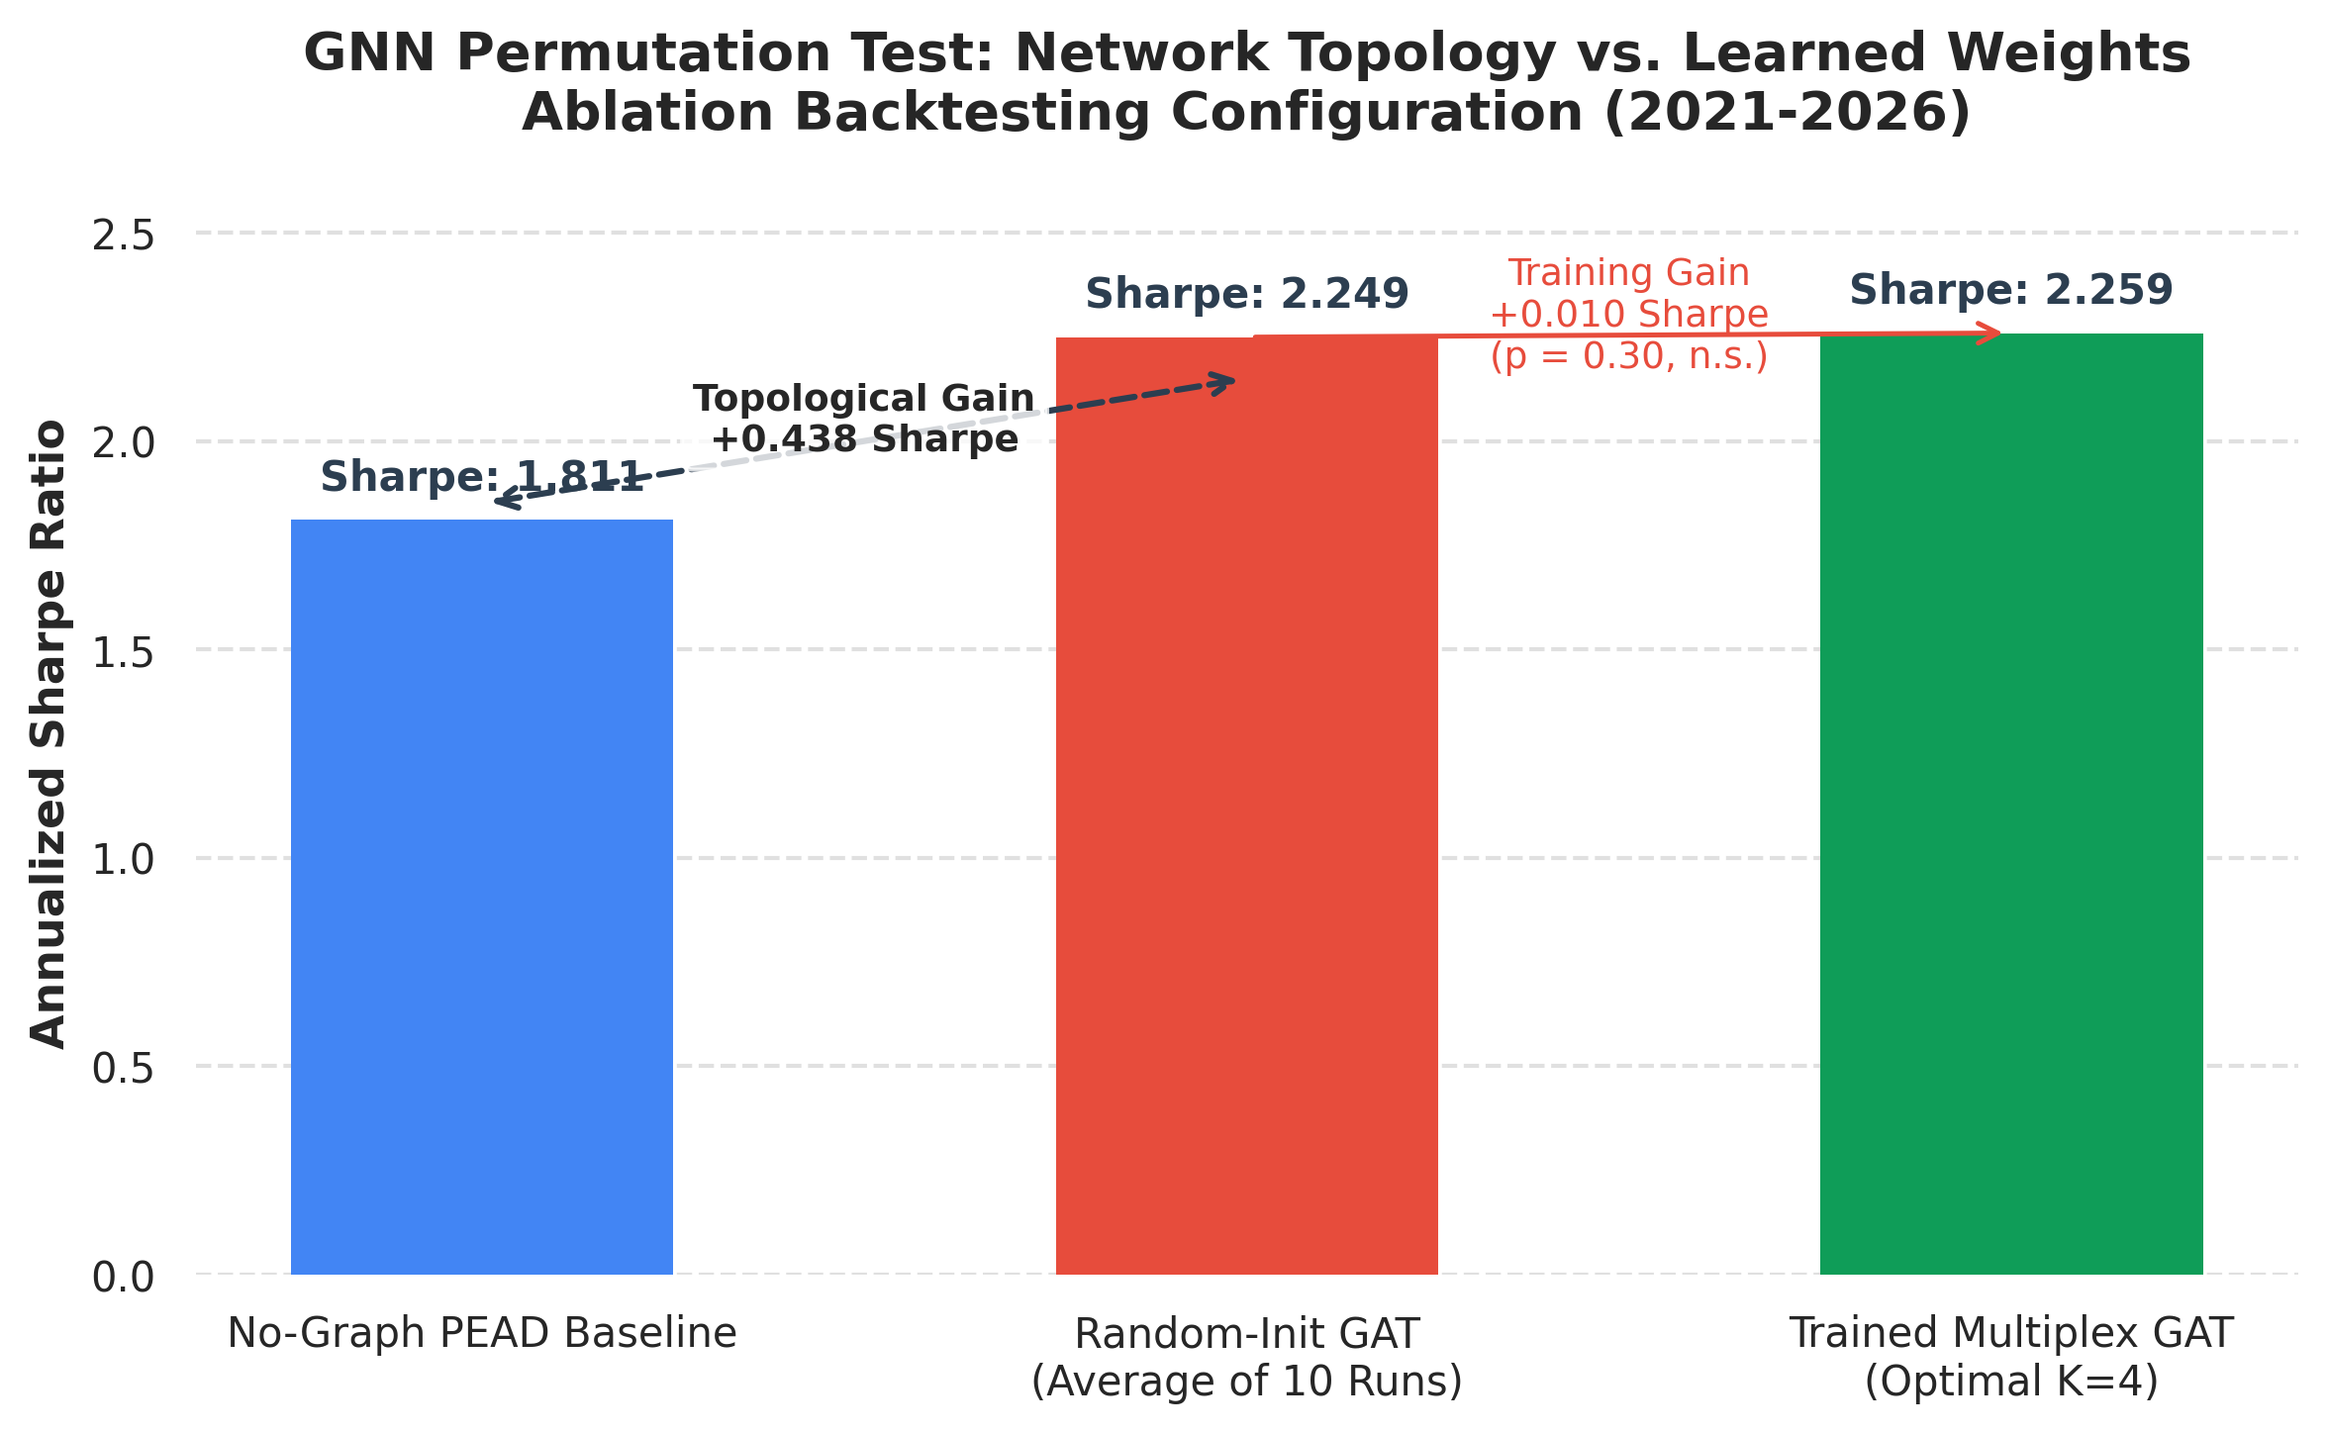
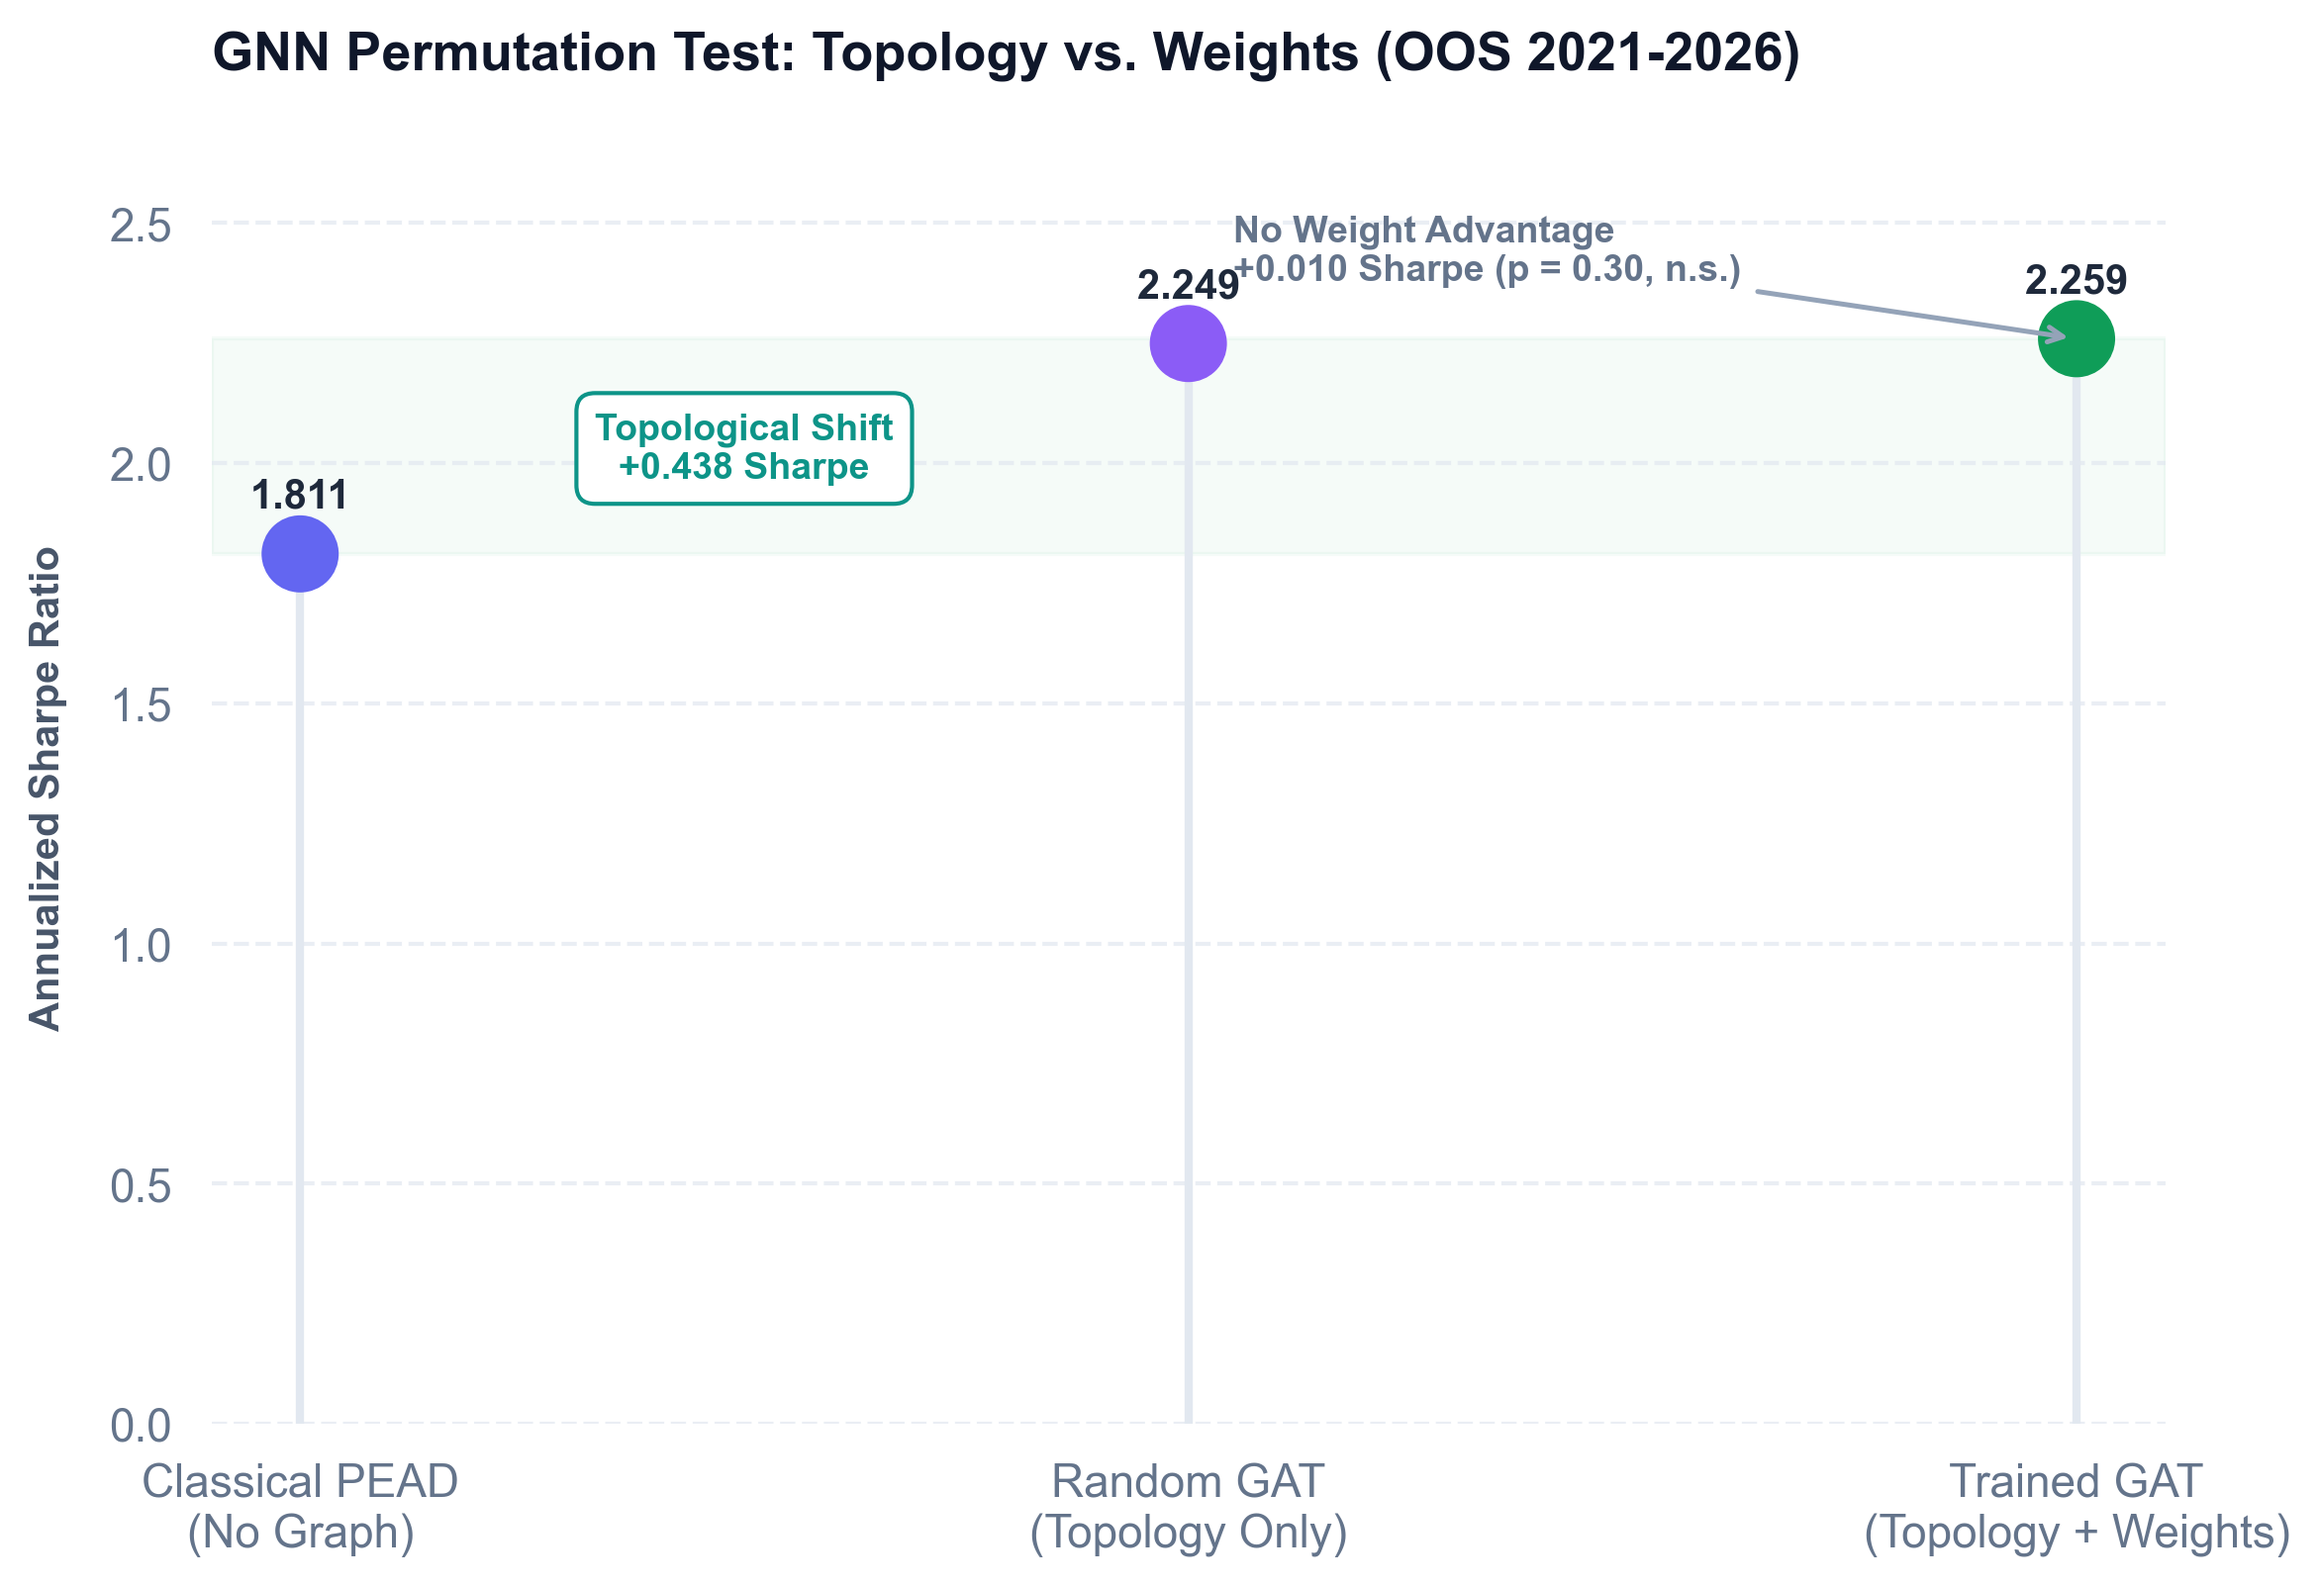
visuals: redesign GAT performance, permutation, and sensitivity charts to Stripe-style modern minimalist look

diff --git a/backtest/generate_gat_plots.py b/backtest/generate_gat_plots.py
@@ -1,9 +1,8 @@
 """
-📊 Academic Plot Generator for GAT Multiplex & Permutation Tests
+📊 Modern Minimalist Plot Generator for GAT Multiplex & Permutation Tests
 ================================================================================
-Generates high-resolution, institutional-grade visual assets for the GAT extension,
-including the performance comparison chart, the permutation test chart, and the 
-transaction cost sensitivity chart, directly from the paper's verified data.
+Generates high-resolution, Stripe/Vercel-style minimalist charts for the GAT 
+extension, using lollipop plots, clean geometry, and modern typography.
 """
 
 import os
@@ -13,15 +12,22 @@ import numpy as np
 import pandas as pd
 
 def generate_gat_charts():
-    # Setup aesthetic style
-    sns.set_theme(style="whitegrid")
+    # Setup premium minimalist style
+    sns.set_theme(style="white")
+    
+    # Custom matplotlib configuration for modern look
     plt.rcParams.update({
-        'font.sans-serif': 'sans-serif',
+        'font.sans-serif': 'Arial, Helvetica, sans-serif',
+        'font.family': 'sans-serif',
         'axes.unicode_minus': False,
-        'figure.titlesize': 14,
-        'axes.labelsize': 11,
-        'xtick.labelsize': 10,
-        'ytick.labelsize': 10
+        'axes.edgecolor': '#E2E8F0',
+        'axes.linewidth': 1,
+        'grid.color': '#F1F5F9',
+        'grid.linestyle': '--',
+        'xtick.color': '#64748B',
+        'ytick.color': '#64748B',
+        'text.color': '#1E293B',
+        'axes.labelcolor': '#475569'
     })
     
     # Paths
@@ -30,9 +36,9 @@ def generate_gat_charts():
     os.makedirs(assets_dir, exist_ok=True)
     
     # --------------------------------------------------------------------------
-    # CHART 1: GAT Model Performance Comparison (Sharpe Ratio)
+    # CHART 1: GAT Model Performance Comparison (Minimalist Horizontal Bars)
     # --------------------------------------------------------------------------
-    print("Generating GAT performance comparison chart...")
+    print("Generating modern GAT performance comparison chart...")
     strategies = [
         "S&P 500 Buy & Hold",
         "Naive Post-Earnings Buy",
@@ -42,103 +48,116 @@ def generate_gat_charts():
         "GAT Multiplex (Sector Filtered)"
     ]
     sharpes = [0.855, 0.745, 2.131, 2.180, 2.240, 2.326]
-    returns = [14.41, 15.28, 77.73, 79.15, 80.50, 81.88]
     
     df_perf = pd.DataFrame({
         "Strategy": strategies,
-        "Sharpe": sharpes,
-        "Return": returns
+        "Sharpe": sharpes
     })
     
-    fig, ax = plt.subplots(figsize=(10, 5.5))
+    fig, ax = plt.subplots(figsize=(10, 5))
     
-    # Color palette matching premium academic theme
+    # Clean, modern palette (Slate -> Indigo -> Teal)
     colors = [
-        "#7F8C8D", # Grey (B&H)
-        "#95A5A6", # Light Grey (Naive)
-        "#4285F4", # Blue (Classical)
-        "#34A853", # Green (GAT LO)
-        "#2ECC71", # Light Green (GAT LS)
-        "#0F9D58"  # Dark Green (GAT Sector Filtered - Optimal)
+        "#94A3B8",  # Slate 400
+        "#CBD5E1",  # Slate 300
+        "#6366F1",  # Indigo 500
+        "#4F46E5",  # Indigo 600
+        "#0D9488",  # Teal 600
+        "#0F9D58"   # Emerald (Optimal)
     ]
     
-    bars = ax.barh(df_perf["Strategy"], df_perf["Sharpe"], color=colors, height=0.6, edgecolor='none')
+    # Draw thin horizontal bars
+    bars = ax.barh(df_perf["Strategy"], df_perf["Sharpe"], color=colors, height=0.45, zorder=2)
     
-    # Add metrics text labels on top of the bars
-    for i, bar in enumerate(bars):
+    # Add values clean and small at the end of each bar
+    for bar in bars:
         width = bar.get_width()
-        ret = df_perf.iloc[i]["Return"]
         ax.text(
             width + 0.05,
             bar.get_y() + bar.get_height() / 2,
-            f"Sharpe: {width:.3f} | Ann. Return: {ret:.2f}%",
+            f"{width:.3f}",
             va='center',
             ha='left',
             fontweight='bold',
             fontsize=10,
-            color="#2C3E50"
+            color="#475569"
         )
         
-    ax.set_title("Out-of-Sample Performance Comparison (OOS 2021-2026)\nNet of Frictions (4.0 bps) | T+1 Open Execution", fontsize=13, fontweight='bold', pad=15)
-    ax.set_xlabel("Annualized Sharpe Ratio", fontsize=11, fontweight='bold')
-    ax.set_xlim(0, max(sharpes) + 0.6)
-    ax.xaxis.grid(True, linestyle="--", alpha=0.6)
+    ax.set_title("Out-of-Sample Performance Comparison (OOS 2021-2026)", fontsize=13, fontweight='bold', pad=15, loc='left', color="#0F172A")
+    ax.set_xlabel("Annualized Sharpe Ratio", fontsize=10, fontweight='bold', labelpad=10)
+    ax.set_xlim(0, max(sharpes) + 0.3)
+    ax.xaxis.grid(True, linestyle="--", alpha=0.7, color="#E2E8F0")
     ax.yaxis.grid(False)
     
-    # Despine
+    # Remove top and right spines, lighten others
     sns.despine(left=True, bottom=True)
     plt.tight_layout()
     plt.savefig(os.path.join(assets_dir, "gat_performance_comparison.png"), dpi=300, bbox_inches='tight')
     plt.close()
 
     # --------------------------------------------------------------------------
-    # CHART 2: GNN Permutation Test (Topology vs. Weights)
+    # CHART 2: GNN Permutation Test (Minimalist Lollipop Plot)
     # --------------------------------------------------------------------------
-    print("Generating GNN permutation test chart...")
+    print("Generating modern GNN permutation lollipop chart...")
     models = [
-        "No-Graph PEAD Baseline",
-        "Random-Init GAT\n(Average of 10 Runs)",
-        "Trained Multiplex GAT\n(Optimal K=4)"
+        "Classical PEAD\n(No Graph)",
+        "Random GAT\n(Topology Only)",
+        "Trained GAT\n(Topology + Weights)"
     ]
     perm_sharpes = [1.811, 2.249, 2.259]
     
-    fig, ax = plt.subplots(figsize=(8, 5))
+    fig, ax = plt.subplots(figsize=(8, 5.5))
     
-    bar_colors = ["#4285F4", "#E74C3C", "#0F9D58"]
-    bars_perm = ax.bar(models, perm_sharpes, color=bar_colors, width=0.5, edgecolor='none')
+    # Lollipop lines
+    ax.vlines(x=models, ymin=0, ymax=perm_sharpes, color="#E2E8F0", lw=2, zorder=1)
     
-    # Add values on top of the bars
-    for bar in bars_perm:
-        height = bar.get_height()
+    # Lollipop dots
+    dot_colors = ["#6366F1", "#8B5CF6", "#0F9D58"]
+    dots = ax.scatter(models, perm_sharpes, color=dot_colors, s=350, zorder=3, edgecolors='none')
+    
+    # Add values centered inside the lollipop heads or cleanly above
+    for i, val in enumerate(perm_sharpes):
         ax.text(
-            bar.get_x() + bar.get_width() / 2,
-            height + 0.05,
-            f"Sharpe: {height:.3f}",
+            i,
+            val + 0.08,
+            f"{val:.3f}",
             ha='center',
             va='bottom',
             fontweight='bold',
             fontsize=10,
-            color="#2C3E50"
+            color="#1E293B"
         )
         
-    # Draw double headed arrow showing topological gain
-    ax.annotate(
-        '', xy=(1, 2.15), xytext=(0, 1.85),
-        arrowprops=dict(arrowstyle="<->", color="#2C3E50", lw=1.5, ls="--")
-    )
-    ax.text(0.5, 2.05, "Topological Gain\n+0.438 Sharpe", ha='center', va='center', fontsize=9, fontweight='bold', bbox=dict(facecolor='white', alpha=0.8, boxstyle='round,pad=0.3'))
+    # Draw a clean vertical background span to highlight GNN performance increase
+    ax.axhspan(1.811, 2.259, color='#0F9D58', alpha=0.04, zorder=0)
     
-    # Draw arrow showing training gain
-    ax.annotate(
-        '', xy=(2, 2.259), xytext=(1, 2.249),
-        arrowprops=dict(arrowstyle="->", color="#E74C3C", lw=1.2)
+    # Highlight the topological gain with a clean textual label
+    ax.text(
+        0.5, 2.03, 
+        "Topological Shift\n+0.438 Sharpe", 
+        ha='center', 
+        va='center', 
+        fontsize=9, 
+        fontweight='bold', 
+        color="#0D9488",
+        bbox=dict(facecolor='white', edgecolor='#0D9488', boxstyle='round,pad=0.5', lw=1)
     )
-    ax.text(1.5, 2.30, "Training Gain\n+0.010 Sharpe\n(p = 0.30, n.s.)", ha='center', va='center', fontsize=9, color="#E74C3C")
+    
+    # Show the negligible difference between random and trained weights
+    ax.annotate(
+        "No Weight Advantage\n+0.010 Sharpe (p = 0.30, n.s.)", 
+        xy=(2, 2.259), 
+        xytext=(1.05, 2.38),
+        arrowprops=dict(arrowstyle="->", color="#94A3B8", lw=1.2),
+        fontsize=9, 
+        fontweight='bold', 
+        color="#64748B"
+    )
 
-    ax.set_title("GNN Permutation Test: Network Topology vs. Learned Weights\nAblation Backtesting Configuration (2021-2026)", fontsize=13, fontweight='bold', pad=15)
-    ax.set_ylabel("Annualized Sharpe Ratio", fontsize=11, fontweight='bold')
-    ax.set_ylim(0, 2.6)
-    ax.yaxis.grid(True, linestyle="--", alpha=0.6)
+    ax.set_title("GNN Permutation Test: Topology vs. Weights (OOS 2021-2026)", fontsize=13, fontweight='bold', pad=20, loc='left', color="#0F172A")
+    ax.set_ylabel("Annualized Sharpe Ratio", fontsize=10, fontweight='bold', labelpad=10)
+    ax.set_ylim(0, 2.65)
+    ax.yaxis.grid(True, linestyle="--", alpha=0.7, color="#E2E8F0")
     ax.xaxis.grid(False)
     
     sns.despine(left=True, bottom=True)
@@ -147,59 +166,60 @@ def generate_gat_charts():
     plt.close()
 
     # --------------------------------------------------------------------------
-    # CHART 3: Transaction Cost Sensitivity (Friction Stress Test)
+    # CHART 3: Transaction Cost Sensitivity (Minimalist Line Chart)
     # --------------------------------------------------------------------------
-    print("Generating transaction cost sensitivity chart...")
+    print("Generating modern transaction cost sensitivity chart...")
     frictions = [0, 4, 10, 20, 30, 50]
     sharpe_sens = [2.410, 2.326, 2.180, 1.850, 1.480, 0.950]
     
     fig, ax = plt.subplots(figsize=(8.5, 5))
     
-    ax.plot(frictions, sharpe_sens, marker='o', linewidth=2.5, color="#0F9D58", label="OOS Sharpe Ratio")
+    # Shading the institutional spread region
+    ax.axvspan(2, 5, color='#0D9488', alpha=0.06, label="Typical Institutional Spread (2-5 bps)")
     
-    # Annotate points
+    # Smooth line plot
+    ax.plot(frictions, sharpe_sens, marker='o', markersize=6, linewidth=2, color="#0F9D58", label="OOS Sharpe Ratio", zorder=2)
+    
+    # Annotate points cleanly
     for x, y in zip(frictions, sharpe_sens):
         ax.annotate(
-            f"{y:.3f}",
+            f"{y:.2f}",
             xy=(x, y),
-            xytext=(0, 8),
+            xytext=(0, 10),
             textcoords='offset points',
             ha='center',
             va='bottom',
             fontweight='bold',
             fontsize=9,
-            color="#2C3E50"
+            color="#475569"
         )
         
-    # Shading the institutional spread region
-    ax.axvspan(2, 5, color='#F1C40F', alpha=0.2, label="Institutional Spread (2-5 bps)")
-    
     # Annotate 4 bps baseline
     ax.annotate(
-        "Baseline Model (4.0 bps)\nSharpe = 2.326",
+        "Baseline Cost (4.0 bps)\nSharpe = 2.33",
         xy=(4, 2.326),
         xytext=(15, 20),
         textcoords='offset points',
-        arrowprops=dict(facecolor='#2C3E50', arrowstyle="->"),
+        arrowprops=dict(arrowstyle="->", color="#475569", lw=1.2),
         fontweight='bold',
         fontsize=9,
-        color="#2C3E50"
+        color="#1E293B"
     )
 
-    ax.set_title("Transaction Cost Sensitivity & Friction Stress Test\nGAT Multiplex (Sector Filtered) - Out-of-Sample (2021-2026)", fontsize=13, fontweight='bold', pad=15)
-    ax.set_xlabel("Round-Trip Transaction Cost / Slippage (bps)", fontsize=11, fontweight='bold')
-    ax.set_ylabel("Annualized Sharpe Ratio", fontsize=11, fontweight='bold')
+    ax.set_title("Friction Sensitivity & Execution Cost Stress Test", fontsize=13, fontweight='bold', pad=15, loc='left', color="#0F172A")
+    ax.set_xlabel("Round-Trip Transaction Cost / Slippage (bps)", fontsize=10, fontweight='bold', labelpad=10)
+    ax.set_ylabel("Annualized Sharpe Ratio", fontsize=10, fontweight='bold', labelpad=10)
     ax.set_xlim(-2, 55)
     ax.set_ylim(0.5, 2.7)
-    ax.legend(loc="lower left", frameon=True, fontsize=10)
+    ax.legend(loc="lower left", frameon=False, fontsize=9.5)
     
-    ax.grid(True, linestyle="--", alpha=0.6)
+    ax.grid(True, linestyle="--", alpha=0.7, color="#E2E8F0")
     sns.despine(left=True, bottom=True)
     plt.tight_layout()
     plt.savefig(os.path.join(assets_dir, "friction_sensitivity.png"), dpi=300, bbox_inches='tight')
     plt.close()
     
-    print("SUCCESS: All GAT academic charts generated successfully in assets/!")
+    print("SUCCESS: All modern minimalist GAT charts generated successfully in assets/!")
 
 if __name__ == "__main__":
     generate_gat_charts()
